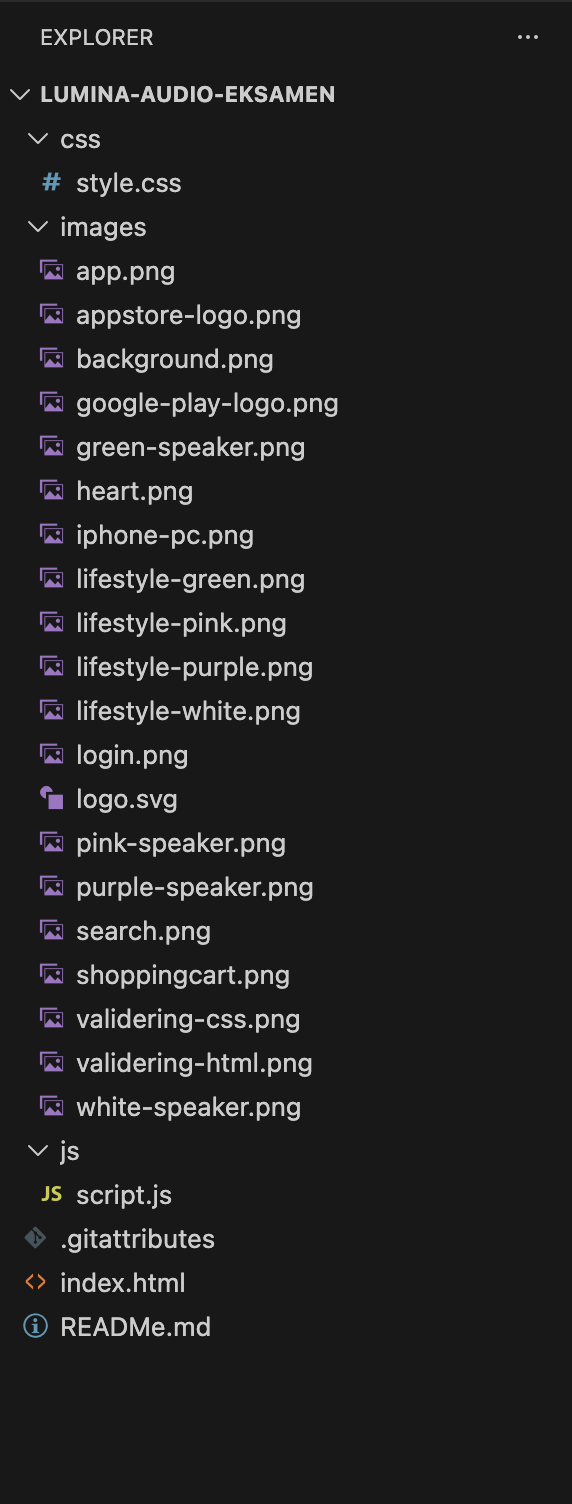
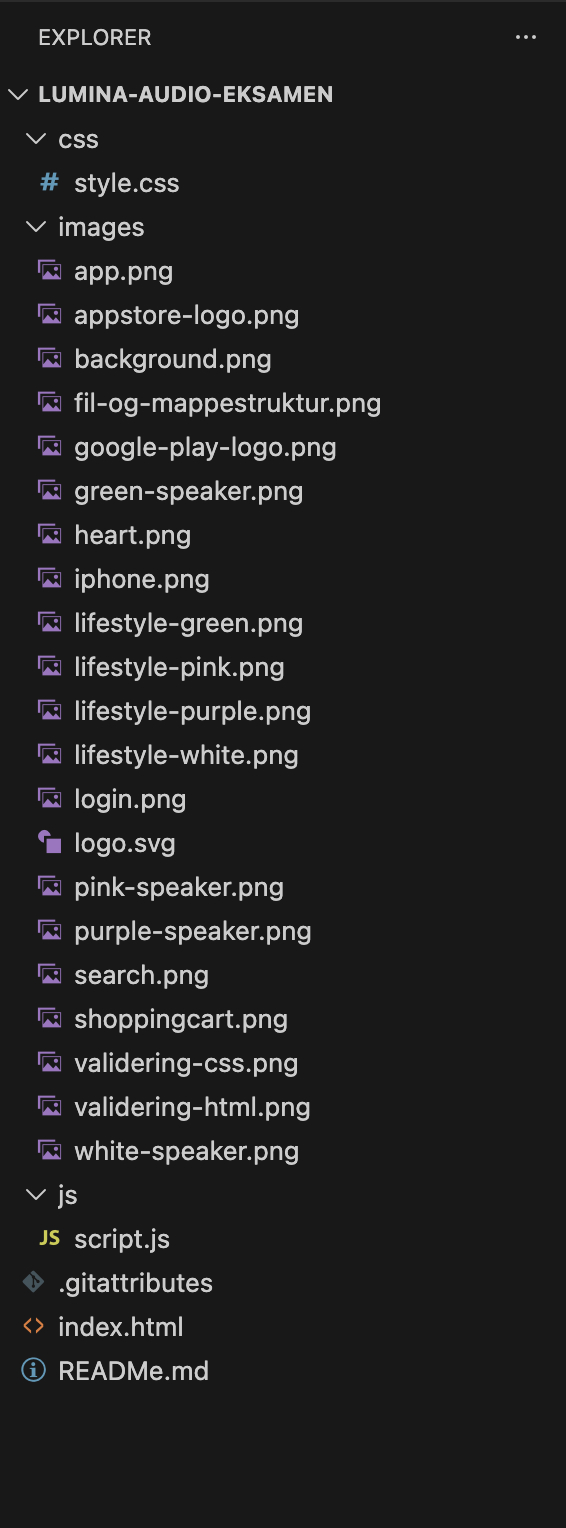
Har indsat en ny iphone

diff --git a/css/style.css b/css/style.css
@@ -433,7 +433,7 @@ opacity: 50%;
 /* Produktspecifikationer */
 .spec-section {
   padding: 90px 8%;
-  background: linear-gradient(to top, #FFFFFF 20%, #f4d7d7 80%);
+  background: linear-gradient(to top, #FFFFFF 10%, #f4d7d7 60%);
 }
 
 .spec-content {
@@ -533,7 +533,7 @@ opacity: 50%;
     font-weight: 500;
 }
 .social-image img {
-    width: 50%;
+    width: 80%;
     height: auto;
     display: block;
     border-radius: 20px;